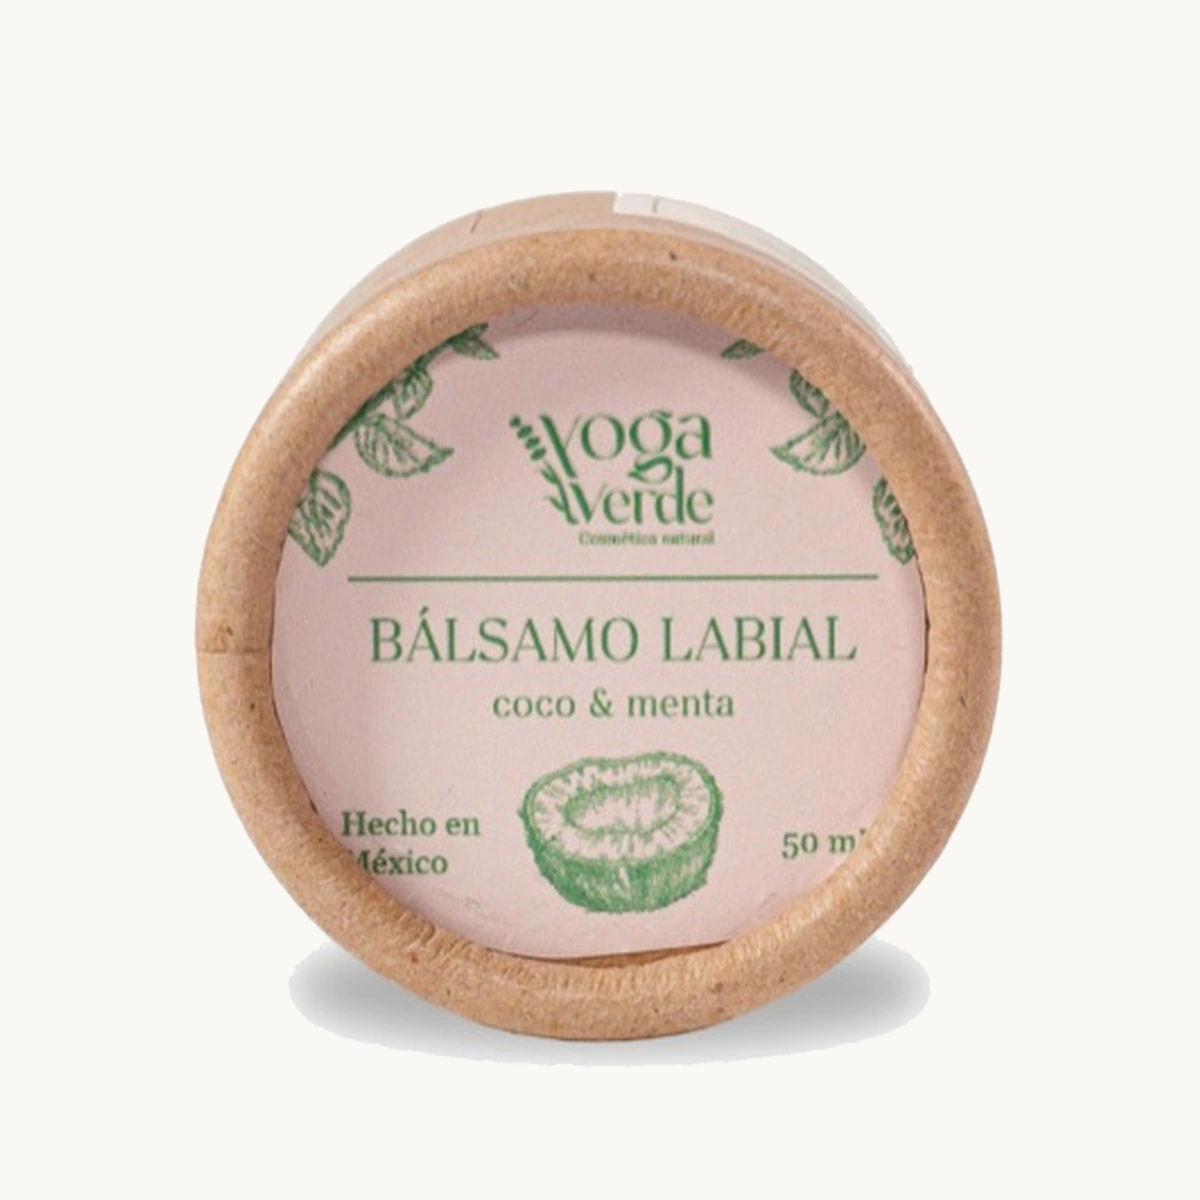
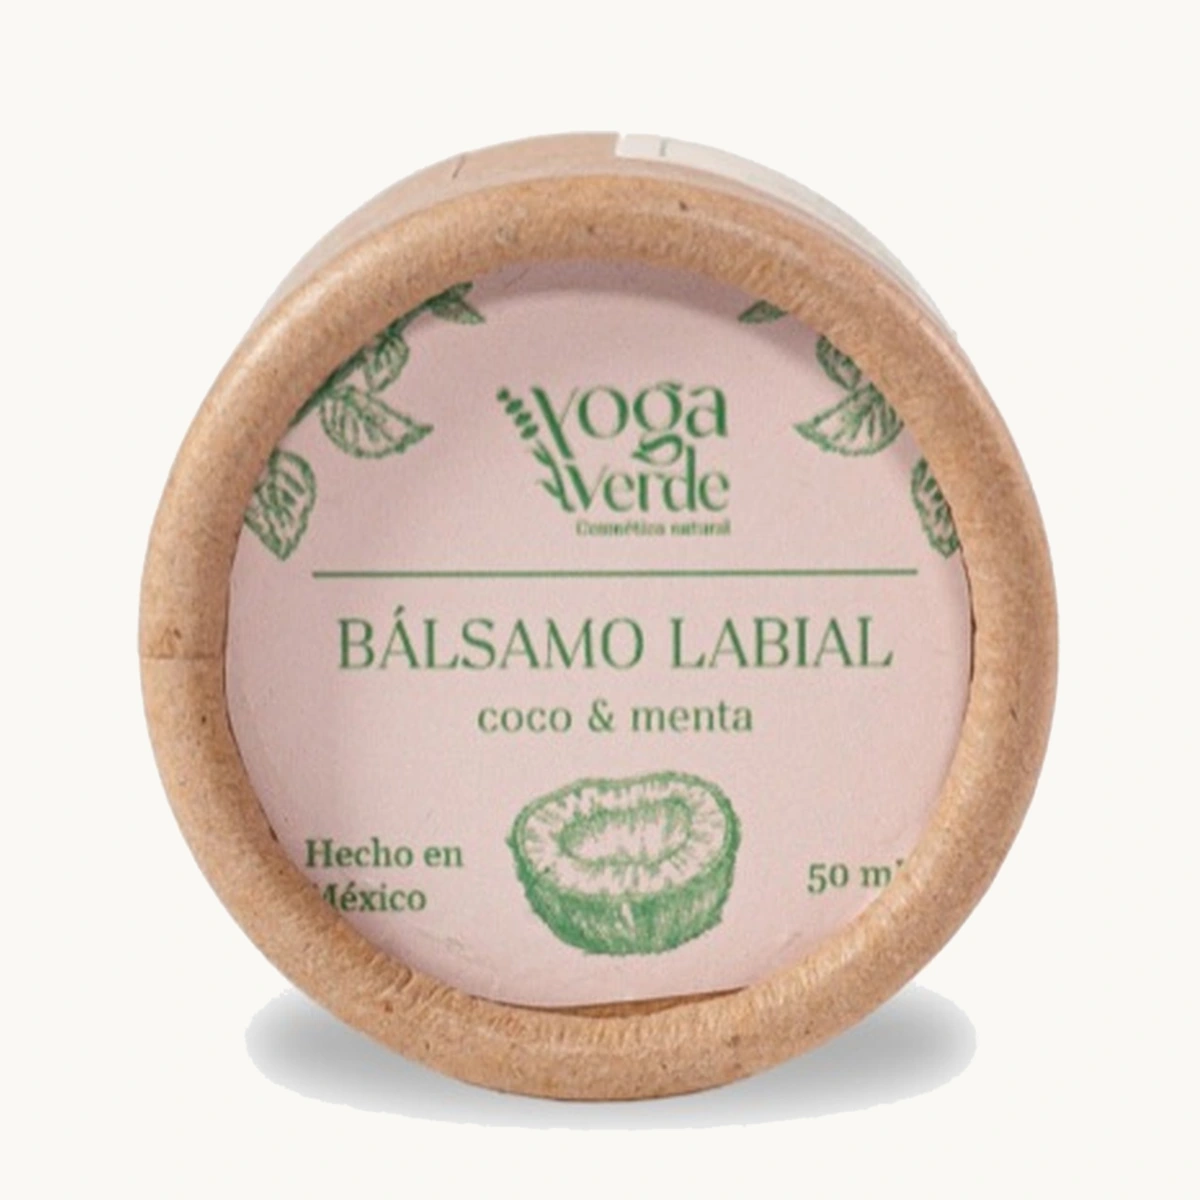
Refine Yoga Verde detail focus and image normalization

diff --git a/site/public/yoga-verde/shop.js b/site/public/yoga-verde/shop.js
@@ -535,7 +535,7 @@ function triggerMedia(trigger) {
   return trigger?.closest?.("article")?.querySelector("img") || null;
 }
 
-function openDetail(itemId) {
+function openDetail(itemId, trigger = document.activeElement) {
   const item = ITEM_INDEX.get(itemId);
   // Nunca bloquees la página si el panel no está completo. Esto deja la
   // navegación usable aunque una edición futura rompa el markup del modal.
@@ -547,7 +547,10 @@ function openDetail(itemId) {
   state.detailItemId = itemId;
   state.detailOpen = true;
   // Se recuerda quién abrió para devolverle el foco al cerrar.
-  lastDetailTrigger = document.activeElement;
+  lastDetailTrigger =
+    trigger instanceof Element && trigger.matches("[data-open-detail]")
+      ? trigger
+      : document.activeElement;
 
   withViewTransition(() => applyDetail(item), triggerMedia(lastDetailTrigger), els.detailImage);
 }
@@ -795,7 +798,7 @@ document.addEventListener("click", (event) => {
 
   if (target.matches("[data-open-detail]")) {
     event.preventDefault();
-    openDetail(target.getAttribute("data-open-detail"));
+    openDetail(target.getAttribute("data-open-detail"), target);
   }
 
   if (target.matches("[data-close-detail]")) {

diff --git a/site/src/styles/yoga-verde.css b/site/src/styles/yoga-verde.css
@@ -764,6 +764,13 @@ img {
   transition: transform 0.3s cubic-bezier(0.22, 1, 0.36, 1), opacity 0.2s ease;
 }
 
+/* El diálogo recibe el foco como contenedor para mantener el teclado dentro.
+   El outline azul nativo del navegador rodeaba toda la hoja y parecía un error
+   visual; los controles interactivos internos conservan sus propios focus rings. */
+.detail-panel:focus {
+  outline: none;
+}
+
 .detail-panel.is-open {
   transform: none;
   opacity: 1;

diff --git a/site/scripts/normalize-yoga-product-images.py b/site/scripts/normalize-yoga-product-images.py
@@ -23,6 +23,7 @@ SOURCE_DIR = ROOT / "public/yoga-verde/assets/products"
 OUTPUT_DIR = SOURCE_DIR / "display"
 CANVAS_SIZE = 1200
 TARGET_FOREGROUND = 1000
+FOREGROUND_BASELINE = CANVAS_SIZE - 70
 CANVAS_BACKGROUND = (250, 248, 244, 255)
 
 
@@ -104,26 +105,56 @@ def normalize(source: Path, destination: Path) -> None:
     bbox = largest_component_bbox(mask)
 
     left, top, right, bottom = bbox
+    foreground_width = right - left
+    foreground_height = bottom - top
     padding_x = max(12, int((right - left) * 0.08))
     padding_y = max(12, int((bottom - top) * 0.08))
-    left = max(0, left - padding_x)
-    top = max(0, top - padding_y)
-    right = min(image.width, right + padding_x)
-    bottom = min(image.height, bottom + padding_y)
+    crop_left = max(0, left - padding_x)
+    crop_top = max(0, top - padding_y)
+    crop_right = min(image.width, right + padding_x)
+    crop_bottom = min(image.height, bottom + padding_y)
 
-    cropped = image.crop((left, top, right, bottom))
-    cropped.putalpha(mask.crop((left, top, right, bottom)).filter(ImageFilter.GaussianBlur(radius=0.8)))
+    cropped = image.crop((crop_left, crop_top, crop_right, crop_bottom))
+    cropped.putalpha(
+        mask.crop((crop_left, crop_top, crop_right, crop_bottom)).filter(
+            ImageFilter.GaussianBlur(radius=0.8),
+        ),
+    )
 
-    scale = TARGET_FOREGROUND / max(cropped.width, cropped.height)
+    # Scale the detected object, not the padded crop. The previous formula
+    # scaled the added 8% margin too, producing visible 59% and 72% bands in
+    # the same grid. The object now has the same maximum dimension regardless
+    # of how much white space the source photo contains.
+    scale = TARGET_FOREGROUND / max(foreground_width, foreground_height)
     resized = cropped.resize(
         (max(1, round(cropped.width * scale)), max(1, round(cropped.height * scale))),
         Image.Resampling.LANCZOS,
     )
 
     canvas = Image.new("RGBA", (CANVAS_SIZE, CANVAS_SIZE), CANVAS_BACKGROUND)
-    x = (CANVAS_SIZE - resized.width) // 2
-    y = CANVAS_SIZE - resized.height - 70
-    canvas.alpha_composite(resized, (x, max(40, y)))
+    # Align the visible foreground itself, rather than the padded crop. This
+    # keeps product centers and bases consistent even when the source object
+    # was photographed off-center or touches an image edge.
+    foreground_left = (left - crop_left) * scale
+    foreground_top = (top - crop_top) * scale
+    foreground_right = (right - crop_left) * scale
+    foreground_bottom = (bottom - crop_top) * scale
+    x = round(CANVAS_SIZE / 2 - (foreground_left + foreground_right) / 2)
+    y = round(FOREGROUND_BASELINE - foreground_bottom)
+
+    # Crop only any padded pixels that extend beyond the canvas. The detected
+    # product remains inside the safe area because its baseline and center are
+    # placed explicitly above.
+    visible_left = max(0, x)
+    visible_top = max(0, y)
+    visible_right = min(CANVAS_SIZE, x + resized.width)
+    visible_bottom = min(CANVAS_SIZE, y + resized.height)
+    if visible_right <= visible_left or visible_bottom <= visible_top:
+        raise RuntimeError(f"Normalized crop does not intersect canvas: {source}")
+    clipped = resized.crop(
+        (visible_left - x, visible_top - y, visible_right - x, visible_bottom - y),
+    )
+    canvas.alpha_composite(clipped, (visible_left, visible_top))
     destination.parent.mkdir(parents=True, exist_ok=True)
     canvas.convert("RGB").save(destination, "WEBP", quality=94, method=6)
 
